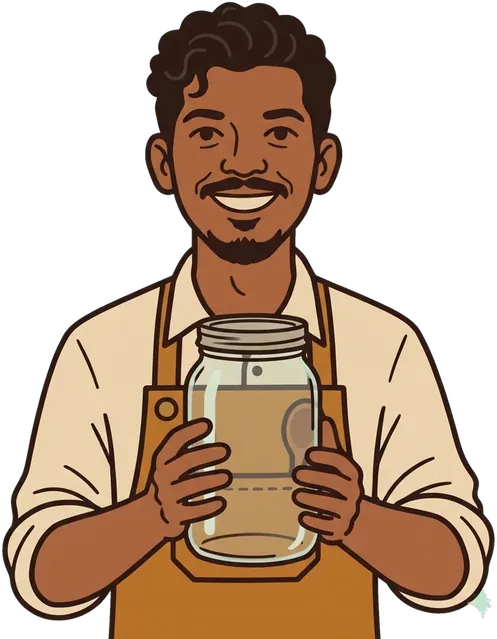
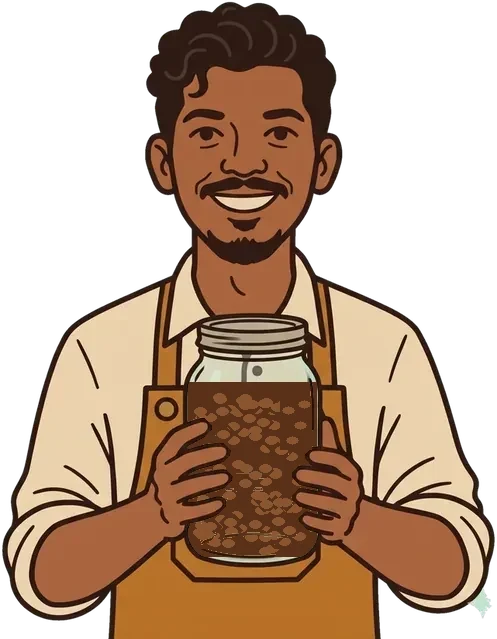
Single plate for pastries, filled and labelled jar in his hands, hand at shelf height for books
Claude-Session: https://claude.ai/code/session_01M7PDTuVyJJ1kuWZYfUFzFc

Changed region(s): [[0.3622, 0.5947, 0.664, 0.892]]

diff --git a/js/scene.js b/js/scene.js
@@ -41,6 +41,7 @@
   const at = (x, y) => `translate(${x}px, ${y}px)`;
   const rot = (arm, deg, dur = 380) => tw(arm, `rotate(${deg}deg)`, dur);
 
+  const dish = (el, show) => el.querySelectorAll(".dish").forEach(d => (d.style.display = show ? "" : "none"));
   function makeItem(it, x, y, s, opacity = 1) {
     const g = document.createElementNS(NS, "g");
     g.innerHTML = A.item(usesCup(it) ? "togo" : it.art, it);
@@ -163,11 +164,13 @@
       pose("tongs1");                           // leans into the case with the tongs
       await rot(armL, 55);
       const el = makeItem(it, 400, 476, 0.62, 0);
+      dish(el, false);                          // he already holds a plate: the pastry comes without its own
       await fade(el, 1, 300);
       frame("tongs2");                          // lifts it out
       sfx("Snip!", 430, 420);
       await tw(el, itemAt(400, 444, 0.62), 300);
       frame("tongs3");
+      dish(el, true);                           // plated, ready to carry
       await Promise.all([rot(armL, 35, 450), tw(el, itemAt(620 - HAND, 548, CARRY), 450)]);
       await walk(800, { el, dx: -HAND });
       return [el, armL];
@@ -188,13 +191,15 @@
     async books(it) {
       const i = it.bookIndex, sx = 145 + i * 32, x = sx + 180;
       await walk(x);
-      pose("reach", true);                      // reach up with the arm on the shelf side
+      if (hasPose("wave1")) { pose("wave1", true); held = "wave1"; } // open hand at shelf height, on the shelf side
+      else pose("reach", true);
       await wait(450);
       sfx("Fwip!", sx - 10, 300);
       hiddenEl = $(`.shelf-book[data-book="${i}"]`);
       hiddenEl.style.opacity = 0;
       const el = makeItem(it, sx, 390, 0.45);
       await tw(el, itemAt(x + HAND, 548, CARRY), 650);
+      held = null;
       await walk(800, { el, dx: HAND });
       return [el, armR];
     },
@@ -271,16 +276,26 @@
     if (give && hasPose(give)) {
       if (give === "plate") {
         pose("plate");                          // the pastry rides on the plate in his hands
+        dish(el, false);                        // one plate only: his
         await tw(el, itemAt(...PLATE_TOP, 0.8), 200);
         await wait(1200);
         pose("idle");
+        dish(el, true);
         await tw(el, itemAt(800, 604, 1.5), 380, "cubic-bezier(.3,1.5,.5,1)");
       } else {
         fade(el, 0, 150);
         if (give === "togo") await writeName();   // name on the cup first, letter by letter
         pose(give);                             // offers it to the visitor
         if (give === "cloche") sfx("Ta-da!", 980, 240);
+        let tag = null;
+        if (give === "jar") {                   // the jar in his hands wears this jar's own label
+          tag = document.createElementNS(NS, "g");
+          tag.innerHTML = `<rect x="${bx - 9}" y="478" width="34" height="24" rx="3" fill="${it.jarColor || "#B5452E"}" stroke="#2A1A12" stroke-width="2.2"/>
+            <path d="M${bx - 3},486 h22 M${bx + 1},493 h14" stroke="#FBF7EE" stroke-opacity=".85" stroke-width="2" stroke-linecap="round"/>`;
+          barista.after(tag);                   // just in front of him, still behind the counter
+        }
         await wait(1300);
+        tag?.remove();
         pose("idle");
         el.style.transform = itemAt(800, 604, 1.5);
         await fade(el, 1, 250);                 // and sets it down on the counter

diff --git a/js/art.js b/js/art.js
@@ -18,8 +18,8 @@ window.ART = (function () {
   const INK = "#2A1A12";
   const ol = (w = 3) => `stroke="${INK}" stroke-width="${w}" stroke-linejoin="round" stroke-linecap="round"`;
   const shadow = (rx = 40, y = 109) => `<ellipse cx="60" cy="${y}" rx="${rx}" ry="5" fill="#000" opacity=".16"/>`;
-  const plate = (rx = 46, y = 104) => `${shadow(rx - 2, y + 5)}<ellipse cx="60" cy="${y}" rx="${rx}" ry="8" fill="#FBF7EE" ${ol()}/>
-      <ellipse cx="60" cy="${y - 1}" rx="${rx - 12}" ry="4" fill="none" stroke="${INK}" stroke-width="1.5" opacity=".3"/>`;
+  const plate = (rx = 46, y = 104) => `<g class="dish">${shadow(rx - 2, y + 5)}<ellipse cx="60" cy="${y}" rx="${rx}" ry="8" fill="#FBF7EE" ${ol()}/>
+      <ellipse cx="60" cy="${y - 1}" rx="${rx - 12}" ry="4" fill="none" stroke="${INK}" stroke-width="1.5" opacity=".3"/></g>`;
   /* steam that drifts up from hot drinks */
   const wisps = (x = 60, y = 62) => `<g class="wisps" fill="none" stroke="#fff" stroke-width="3.5" stroke-linecap="round">
       <path d="M${x - 8},${y} q-6,-9 0,-17 q6,-8 0,-16"/><path class="w2" d="M${x + 8},${y - 2} q6,-9 0,-17 q-6,-8 0,-16"/></g>`;
